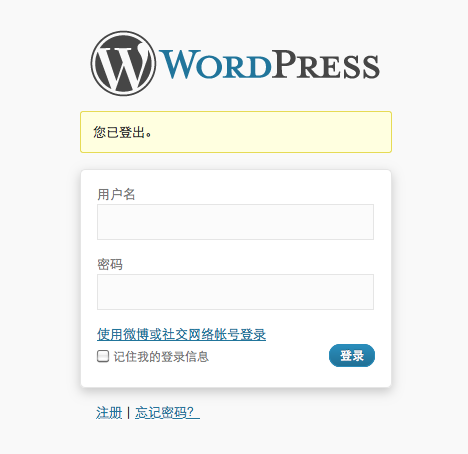
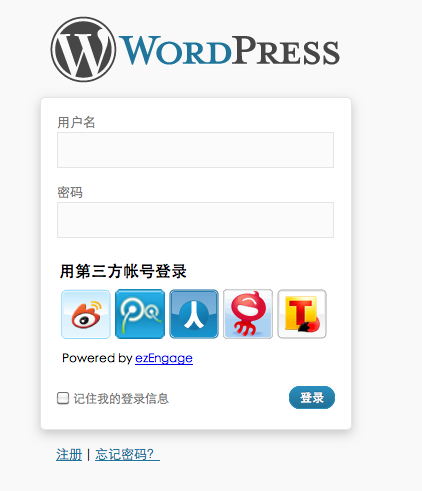
change screenshots, readme and version number

Changed region(s): [[0.0924, 0.4934, 0.8318, 0.9559], [0.0924, 0.0308, 0.8626, 0.3392], [0.1232, 0.37, 0.3081, 0.4626]]

diff --git a/ezengage/ezengage.php b/ezengage/ezengage.php
@@ -4,7 +4,7 @@ Plugin Name: EzEngage
 Plugin URI:  http://ezengage.com/plugin/wordpress/
 Description: 给你的站点添加通过社交网络和微博帐号登录的功能
 Author:  The EzEngage Team
-Version: 1.0.2.4
+Version: 1.0.2.5
 Author URI: http://ezengage.com/blog/
 */   
    
